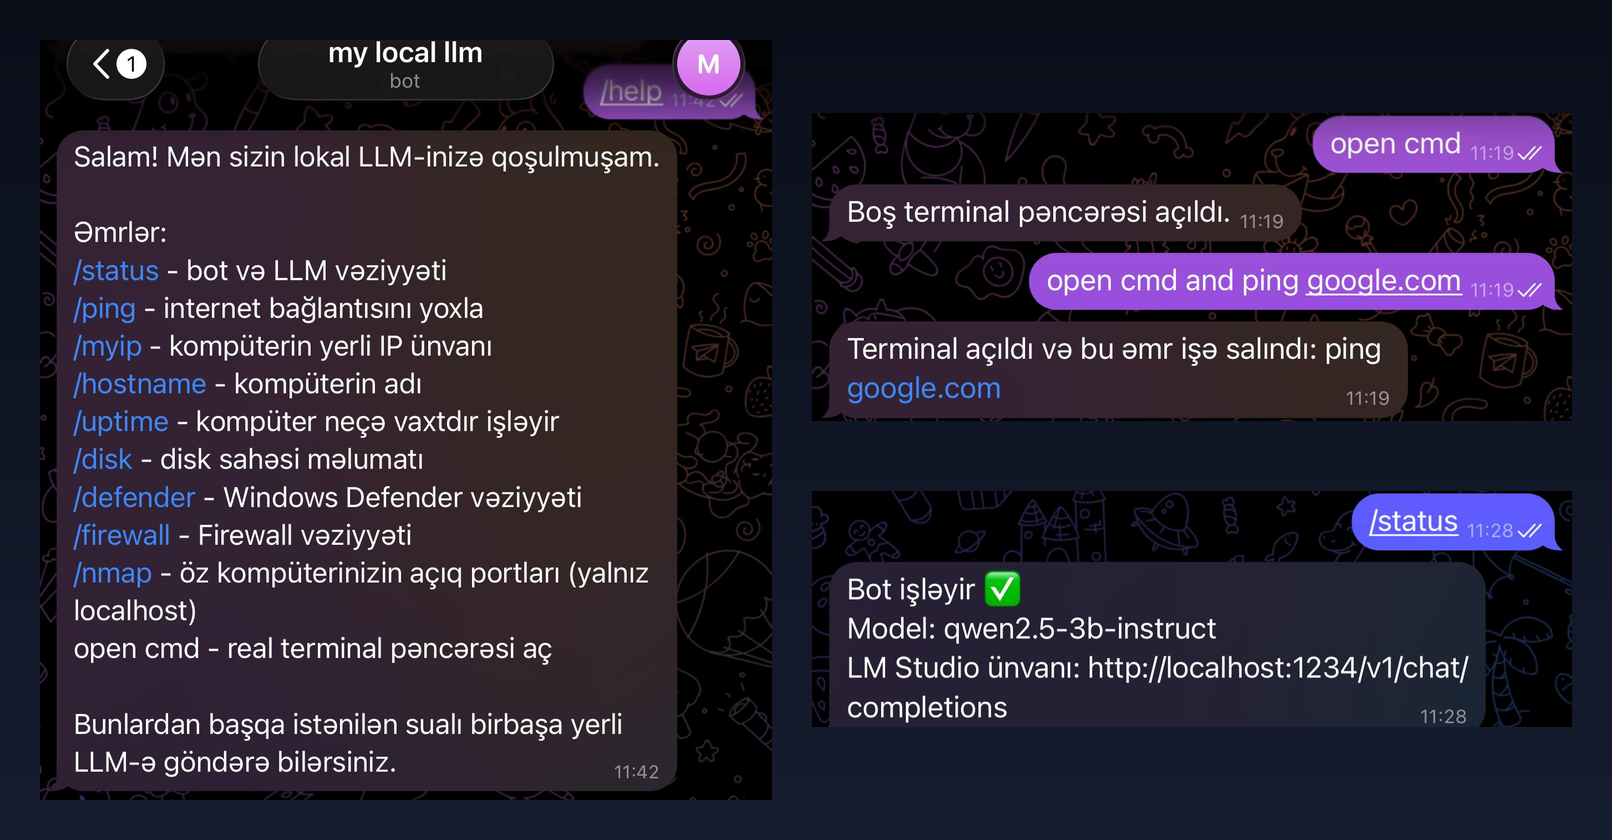
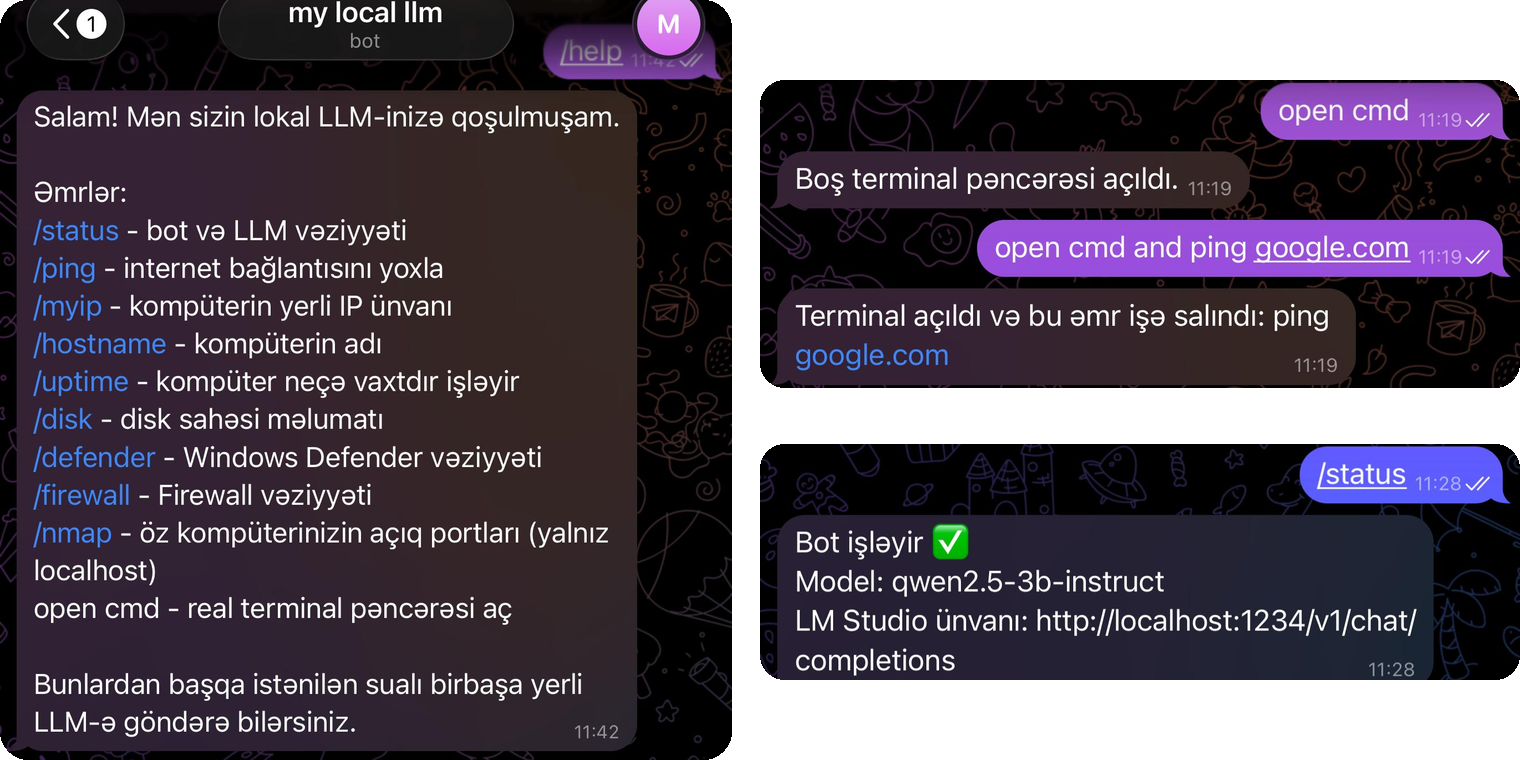
Show the Kindwise request code in the Agrohub window; transparent chatbot image
- Agrohub window: the Python code that called the Kindwise API as a real code
  block ("request.py") with syntax colours and a caption, above the API
  response screenshot ("response.json"); it scrolls sideways on phones
- Chatbot image: new transparent version, shown whole with no background
  behind it, so the card's own background shows through in both themes

diff --git a/js/main.js b/js/main.js
@@ -699,6 +699,83 @@ document.addEventListener("DOMContentLoaded", () => {
         ["Built a LEGO Mindstorms EV3 robot in ADA's MakerSpace.", "Programmed the robot with MakeCode blocks and JavaScript.", "Followed a predefined track autonomously.", "Used the gyro sensor for accurate turns."],
       ];
 
+      // ----- Agrohub request code (plant-health window) -----
+      // The Python script I used to call the Kindwise crop-health API, shown as real text in a
+      // small dark code editor. It is kept here exactly as written; the API key is a placeholder.
+      const agrohubCode = `from kindwise import CropHealthApi
+import json
+import dataclasses
+
+api = CropHealthApi(api_key='myapikey:)')
+image_path = 'wheat.jpg'
+
+try:
+    identification = api.identify(
+        image_path,
+        details=['common_names', 'description', 'treatment', 'symptoms', 'severity']
+    )
+    result = dataclasses.asdict(identification)
+    print("UĞURLU CAVAB:")
+    print(json.dumps(result, indent=2, ensure_ascii=False, default=str))
+except Exception as e:
+    print("XƏTA ALINDI:")
+    print(f"Tip: {type(e).__name__}")
+    print(f"Mesaj: {e}")`;
+
+      // A small file-name tab for the top of a code window ("request.py", "response.json").
+      const createCodeTab = (fileName) => {
+        const tab = document.createElement("div");
+        tab.className = "code-window-tab";
+        tab.textContent = fileName;
+        return tab;
+      };
+
+      // Colour a few kinds of Python token. One pass over the text: each match becomes a <span>
+      // with a class (style.css gives the colours) and everything between stays plain text.
+      // Everything is added as text, never as HTML.
+      // Groups: 1 comment, 2 string (with an optional f prefix), 3 keyword, 4 built-in function,
+      // 5 number.
+      const pythonTokens = /(#.*$)|((?:\bf)?(?:'[^'\n]*'|"[^"\n]*"))|\b(from|import|as|try|except|def|return|if|else|for|in|True|False|None)\b|\b(print|type)\b(?=\()|\b(\d+)\b/gm;
+      const tokenClasses = ["code-comment", "code-string", "code-keyword", "code-builtin", "code-number"];
+      const highlightPython = (source) => {
+        const fragment = document.createDocumentFragment();
+        let lastIndex = 0;
+        for (const match of source.matchAll(pythonTokens)) {
+          fragment.append(source.slice(lastIndex, match.index));
+          const span = document.createElement("span");
+          span.className = tokenClasses[match.slice(1).findIndex((group) => group !== undefined)];
+          span.textContent = match[0];
+          fragment.append(span);
+          lastIndex = match.index + match[0].length;
+        }
+        fragment.append(source.slice(lastIndex));
+        return fragment;
+      };
+
+      // The "request.py" code window and its one-line caption. The <pre> keeps the code's own
+      // line breaks and scrolls sideways when a line is wider than the window (on phones),
+      // instead of wrapping or widening the page. It can be focused, so keyboard users can
+      // scroll it with the arrow keys.
+      const createAgrohubCode = () => {
+        const block = document.createElement("figure");
+        block.className = "agrohub-code";
+        const codeWindow = document.createElement("div");
+        codeWindow.className = "code-window";
+        const pre = document.createElement("pre");
+        pre.className = "code-window-body";
+        pre.tabIndex = 0;
+        pre.setAttribute("role", "region");
+        pre.setAttribute("aria-label", "request.py, Python code that calls the Kindwise API");
+        const code = document.createElement("code");
+        code.append(highlightPython(agrohubCode));
+        pre.append(code);
+        codeWindow.append(createCodeTab("request.py"), pre);
+        const caption = document.createElement("figcaption");
+        caption.textContent = "The API key is a placeholder; the real one is never stored in code.";
+        block.append(codeWindow, caption);
+        return block;
+      };
+
       // ----- NOT gate demo (logic gates window) -----
       // Two Tinkercad pictures of our NOT gate: in not-gate-on.png the red LED is lit, in
       // not-gate-off.png it is dark. A NOT gate turns its input around, so with the push button
@@ -816,7 +893,16 @@ document.addEventListener("DOMContentLoaded", () => {
           visualCopy.tabIndex = 0;
           visualCopy.setAttribute("role", "region");
           visualCopy.setAttribute("aria-label", "Full API response screenshot, scrollable");
+          // Frame the screenshot like the code above it, under a "response.json" tab.
+          const responseWindow = document.createElement("div");
+          responseWindow.className = "code-window code-window-response";
+          responseWindow.append(createCodeTab("response.json"), visualCopy);
+          dialogVisual.replaceChildren(responseWindow);
         }
+
+        // The Agrohub window starts with the Python code that called the Kindwise API, above
+        // the response screenshot.
+        if (projectSlugs[projectIndex] === "plant-health-agrohub") dialogVisual.prepend(createAgrohubCode());
 
         // The logic gates window gets the Tinkercad NOT gate demo under the real photo.
         if (projectSlugs[projectIndex] === "logic-gates") dialogVisual.append(createNotGateDemo());

diff --git a/css/style.css b/css/style.css
@@ -4403,10 +4403,11 @@ a.contact-value:hover,
   background: #000000;
 }
 
+/* The chatbot image is three rounded screenshots on a transparent background: shown whole,
+   with nothing behind it, so the card's own background shows through in both themes. */
 .project-photo[data-photo="chatbot"] {
   object-fit: contain;
-  /* The Telegram screenshot shades from #0b0f1a at the top to #141c2f at the bottom. */
-  background: linear-gradient(180deg, #0b0f1a, #141c2f);
+  background: none;
 }
 
 /* The tall API response: the card shows its top; the window shows all of it (below). */
@@ -4462,6 +4463,65 @@ a.contact-value:hover,
 /* Inside the scroll area the focus ring is drawn inward, where nothing can clip it. */
 .project-window-visual[data-project="plant-health-agrohub"] .project-visual:focus-visible {
   outline-offset: -3px;
+}
+
+/* ----- Agrohub code windows: "request.py" (the Python code) above "response.json" ----- */
+/* A small dark code editor. It stays dark in both themes, like a real editor, with soft
+   syntax colours that keep a contrast of at least 4.5:1 on its background. */
+.agrohub-code {
+  margin: 0 0 0.9rem;
+}
+
+.code-window {
+  overflow: hidden;
+  border: 1px solid rgb(111 208 234 / 22%);
+  border-radius: 0.75rem;
+  background: #0d1020;
+}
+
+/* The file name on top, like an editor tab. */
+.code-window-tab {
+  padding: 0.45rem 0.85rem;
+  border-bottom: 1px solid rgb(255 255 255 / 8%);
+  background: #151a2e;
+  color: #9fb3c8;
+  font: 600 0.68rem var(--font-label);
+  letter-spacing: 0.04em;
+}
+
+/* The code keeps its line breaks and scrolls sideways when a line is too long. */
+.code-window-body {
+  margin: 0;
+  padding: 0.85rem 1rem;
+  overflow-x: auto;
+  color: #e3e8ef;
+  font: 0.72rem/1.6 var(--font-label);
+  tab-size: 4;
+  white-space: pre;
+}
+
+.code-window-body:focus-visible {
+  outline-offset: -3px;
+}
+
+.code-keyword { color: #7fd4ef; }
+.code-string { color: #a8dba0; }
+.code-builtin { color: #f0c38e; }
+.code-number { color: #f3a6c8; }
+.code-comment { color: #8b97a6; font-style: italic; }
+
+.agrohub-code figcaption {
+  margin-top: 0.45rem;
+  color: var(--color-text-muted);
+  font-size: 0.74rem;
+  line-height: 1.5;
+}
+
+/* The screenshot inside the "response.json" window: the window draws the frame, so the
+   screenshot's own border and rounded corners are dropped. */
+.code-window-response .project-visual {
+  border: 0;
+  border-radius: 0;
 }
 
 /* Logic gates: the photo at its own shape, with the NOT gate demo underneath. Plain block
